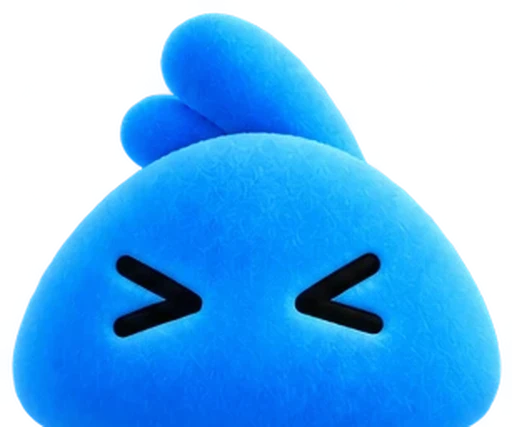
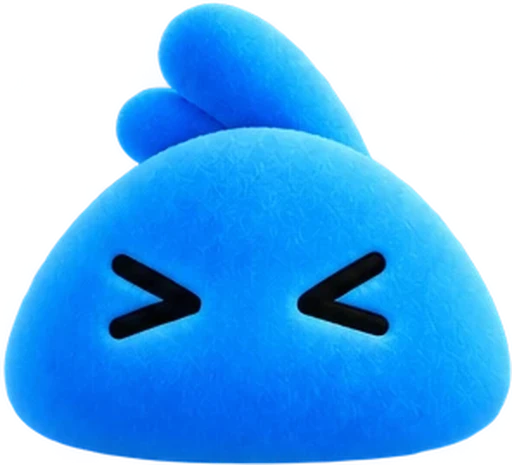
feat(nexa): living mascot — idle expressions, hop motion, uncropped faces
Owner requests 2026-10-24:
- The mascot moves by itself: the launcher cycles a brief expression every
  5 s (wink, happy, sparkle) and returns to neutral; in the chat, the
  greeting, the latest reply and the typing row blink on their own.
- Every expression change and hover plays a small elastic hop
  (nexa-hop keyframes, motion-safe only).
- The two sprite-sheet expressions (pikir, maaf) were cut 18 px short at
  the bottom because the sheet's rows are 269 px, not an even quarter;
  re-cut from the sheet's real alpha-gap grid so the full mascot shows.

diff --git a/src/components/layout/nexa/NexaChat.tsx b/src/components/layout/nexa/NexaChat.tsx
@@ -115,15 +115,58 @@ const speechErrorText = (code: string | undefined): string | null => {
   return 'Input suara tidak tersedia. Silakan ketik pertanyaan Anda.';
 };
 
+// ── Maskot hidup: tiap beberapa detik berganti ekspresi sebentar tanpa disorot (pemilik 2026-10-24) ──
+const IDLE_EVERY = 5000;
+const IDLE_FOR = 850;
+/** Urutan ekspresi selingan tombol maskot (kembali ke netral di antaranya). */
+const LAUNCHER_CYCLE: readonly NexaMood[] = ['kedip', 'ceria', 'kedip', 'kilau'];
+/** Avatar di percakapan cukup berkedip. */
+const CHAT_CYCLE: readonly NexaMood[] = ['kedip'];
+
+/**
+ * Ekspresi maskot yang hidup: selama `active`, setiap IDLE_EVERY ms ekspresi selingan dari `cycle` tampil IDLE_FOR ms,
+ * lalu kembali ke `base`. Pergantian gambar kecil seperti kedipan (bukan gerakan besar), jadi aman tanpa prefers-reduced-motion;
+ * lompatannya sendiri (nexa-hop) hanya jalan di motion-safe.
+ */
+function useIdleMood(base: NexaMood, active: boolean, cycle: readonly NexaMood[]): NexaMood {
+  const [peek, setPeek] = useState<NexaMood | null>(null);
+  useEffect(() => {
+    if (!active) return undefined;
+    let step = 0;
+    const timers: number[] = [];
+    const interval = window.setInterval(() => {
+      const mood = cycle[step % cycle.length];
+      step += 1;
+      setPeek(mood);
+      timers.push(window.setTimeout(() => setPeek(null), IDLE_FOR));
+    }, IDLE_EVERY);
+    return () => {
+      window.clearInterval(interval);
+      timers.forEach((timer) => window.clearTimeout(timer));
+    };
+  }, [active, cycle]);
+  // Saat tidak aktif, `peek` lama diabaikan saja (tanpa reset state di effect)
+  return active ? (peek ?? base) : base;
+}
+
 /** Potong ke `max` code point (bukan unit UTF-16, sama dengan mb_substr di backend). */
 const clip = (text: string, max: number): string => {
   const chars = [...text];
   return chars.length > max ? chars.slice(0, max).join('') : text;
 };
 
-/** Gambar maskot (dekoratif: nama "Nexa" selalu tertulis di dekatnya). */
-export const NexaAvatar: React.FC<{ className?: string; sizes: string; mood?: NexaMood }> = ({ className = '', sizes, mood = 'netral' }) => (
+/**
+ * Gambar maskot (dekoratif: nama "Nexa" selalu tertulis di dekatnya). `animate` membuat maskot melompat kecil setiap
+ * ekspresinya berganti (key = mood, animasi jalan saat elemen dipasang); disorot juga melompat. Keduanya motion-safe.
+ */
+export const NexaAvatar: React.FC<{ className?: string; sizes: string; mood?: NexaMood; animate?: boolean }> = ({
+  className = '',
+  sizes,
+  mood = 'netral',
+  animate = false,
+}) => (
   <img
+    key={animate ? mood : undefined}
     src={moodFile(mood, 128)}
     srcSet={moodSrcSet(mood)}
     sizes={sizes}
@@ -132,7 +175,9 @@ export const NexaAvatar: React.FC<{ className?: string; sizes: string; mood?: Ne
     height={118}
     decoding="async"
     draggable={false}
-    className={`select-none object-contain ${className}`}
+    className={`select-none object-contain motion-safe:hover:animate-[nexa-hop_0.6s_ease-in-out] ${
+      animate ? 'motion-safe:animate-[nexa-hop_0.55s_ease-in-out]' : ''
+    } ${className}`}
   />
 );
 
@@ -229,8 +274,9 @@ export const NexaChat: React.FC<NexaChatProps> = ({ whatsappHref, open, onOpenCh
   const [listening, setListening] = useState(false);
   // Pesan galat input suara (tampil di bawah form & dibacakan lewat role=status)
   const [micNote, setMicNote] = useState('');
-  // Maskot tombol menyapa (senang) saat disorot/difokus
+  // Maskot tombol menyapa saat disorot/difokus; selebihnya hidup sendiri (berkedip dkk. tiap beberapa detik)
   const [greetingLauncher, setGreetingLauncher] = useState(false);
+  const idleMood = useIdleMood('netral', true, LAUNCHER_CYCLE);
   // Panel hanya dirender di klien (tidak ada di HTML prerender), jadi deteksi fitur saat render pertama aman
   const [canListen] = useState(() => speechRecognition() !== null && microphoneAllowed());
 
@@ -443,11 +489,17 @@ export const NexaChat: React.FC<NexaChatProps> = ({ whatsappHref, open, onOpenCh
               aria-label="Percakapan dengan Nexa"
               className="custom-scrollbar relative min-h-32 flex-1 space-y-4 overflow-y-auto overscroll-contain px-6 py-4 sm:px-7"
             >
-              <Bubble from="nexa" mood="ceria">
+              <Bubble from="nexa" mood="ceria" live={messages.length === 0 && !typing}>
                 {GREETING}
               </Bubble>
-              {messages.map((message) => (
-                <Bubble key={message.id} id={message.id} from={message.from} mood={message.mood}>
+              {messages.map((message, index) => (
+                <Bubble
+                  key={message.id}
+                  id={message.id}
+                  from={message.from}
+                  mood={message.mood}
+                  live={!typing && index === messages.length - 1}
+                >
                   {message.from === 'nexa' ? <RichText text={message.text} onNavigate={() => onOpenChange(false)} /> : message.text}
                   {message.action && (
                     <span className="block">
@@ -457,7 +509,7 @@ export const NexaChat: React.FC<NexaChatProps> = ({ whatsappHref, open, onOpenCh
                 </Bubble>
               ))}
               {typing && (
-                <NexaRow mood="pikir">
+                <NexaRow mood="pikir" live>
                   <div className="flex items-center gap-1.5 rounded-[22px] bg-fg/[0.045] px-5 py-4" aria-hidden>
                     {[0, 1, 2].map((i) => (
                       <span key={i} className="h-2 w-2 rounded-full bg-fg/40 motion-safe:animate-bounce" style={{ animationDelay: `${i * 0.15}s` }} />
@@ -558,7 +610,12 @@ export const NexaChat: React.FC<NexaChatProps> = ({ whatsappHref, open, onOpenCh
             Tanya Nexa
           </span>
         )}
-        <NexaAvatar className="h-12 w-12 sm:h-14 sm:w-14" sizes="(min-width: 640px) 56px, 48px" mood={greetingLauncher ? 'ceria' : 'netral'} />
+        <NexaAvatar
+          className="h-12 w-12 sm:h-14 sm:w-14"
+          sizes="(min-width: 640px) 56px, 48px"
+          mood={greetingLauncher ? 'ceria' : idleMood}
+          animate
+        />
         {/* Lencana "AI": lingkaran hitam kecil, teks putih, tanpa garis, di kiri agak ke bawah (pemilik 2026-10-24) */}
         {!open && (
           <span
@@ -573,19 +630,25 @@ export const NexaChat: React.FC<NexaChatProps> = ({ whatsappHref, open, onOpenCh
   );
 };
 
-/** Baris pesan Nexa: maskot berekspresi (hanya gambar, tanpa latar & garis) di kiri bawah, sejajar dasar gelembung. */
-const NexaRow: React.FC<{ id?: number; mood?: NexaMood; children: React.ReactNode }> = ({ id, mood, children }) => (
-  <div
-    className="flex items-end gap-3 transition-[opacity,translate] duration-300 ease-calm starting:translate-y-2 starting:opacity-0 motion-reduce:transition-none"
-    data-message-id={id}
-  >
-    <NexaAvatar className="h-10 w-10 shrink-0" sizes="40px" mood={mood} />
-    <div className="min-w-0 max-w-[85%]">{children}</div>
-  </div>
-);
+/**
+ * Baris pesan Nexa: maskot berekspresi (hanya gambar, tanpa latar & garis) di kiri bawah, sejajar dasar gelembung.
+ * `live` (baris terakhir / sedang mengetik): maskot berkedip sendiri tiap beberapa detik.
+ */
+const NexaRow: React.FC<{ id?: number; mood?: NexaMood; live?: boolean; children: React.ReactNode }> = ({ id, mood = 'netral', live = false, children }) => {
+  const shown = useIdleMood(mood, live, CHAT_CYCLE);
+  return (
+    <div
+      className="flex items-end gap-3 transition-[opacity,translate] duration-300 ease-calm starting:translate-y-2 starting:opacity-0 motion-reduce:transition-none"
+      data-message-id={id}
+    >
+      <NexaAvatar className="h-10 w-10 shrink-0" sizes="40px" mood={shown} animate={live} />
+      <div className="min-w-0 max-w-[85%]">{children}</div>
+    </div>
+  );
+};
 
-/** Gelembung pesan: Nexa kiri (abu, avatar berekspresi `mood`), pengunjung kanan (biru muda). `id` = data-message-id. */
-const Bubble: React.FC<{ from: 'nexa' | 'user'; id?: number; mood?: NexaMood; children: React.ReactNode }> = ({ from, id, mood, children }) => {
+/** Gelembung pesan: Nexa kiri (abu, avatar berekspresi `mood`, hidup bila `live`), pengunjung kanan (biru muda). */
+const Bubble: React.FC<{ from: 'nexa' | 'user'; id?: number; mood?: NexaMood; live?: boolean; children: React.ReactNode }> = ({ from, id, mood, live, children }) => {
   const label = <span className="sr-only">{from === 'user' ? 'Anda: ' : 'Nexa: '}</span>;
   if (from === 'user') {
     return (
@@ -601,7 +664,7 @@ const Bubble: React.FC<{ from: 'nexa' | 'user'; id?: number; mood?: NexaMood; ch
     );
   }
   return (
-    <NexaRow id={id} mood={mood}>
+    <NexaRow id={id} mood={mood} live={live}>
       <div className="whitespace-pre-line break-words rounded-[22px] bg-fg/[0.045] px-5 py-3.5 text-[15px] leading-relaxed text-fg">
         {label}
         {children}

diff --git a/src/components/layout/__tests__/chrome.test.tsx b/src/components/layout/__tests__/chrome.test.tsx
@@ -481,6 +481,24 @@ describe('Nexa AI', () => {
     expect(posts[1].messages).toHaveLength(3);
   });
 
+  it('maskot hidup: tombol berganti ekspresi sendiri tiap beberapa detik lalu kembali netral', () => {
+    vi.useFakeTimers();
+    try {
+      renderAt(<FloatingWhatsApp href={WA} />);
+      const launcher = () => screen.getByRole('button', { name: 'Tanya Nexa, asisten AI' });
+      expect(launcher().querySelector('img')).toHaveAttribute('src', '/assets/nexa/nexa-128.webp');
+      act(() => vi.advanceTimersByTime(5100));
+      expect(launcher().querySelector('img')?.getAttribute('src')).toContain('nexa-kedip');
+      act(() => vi.advanceTimersByTime(900));
+      expect(launcher().querySelector('img')).toHaveAttribute('src', '/assets/nexa/nexa-128.webp');
+      // Putaran kedua (detik ke-10): giliran ekspresi ceria
+      act(() => vi.advanceTimersByTime(4100));
+      expect(launcher().querySelector('img')?.getAttribute('src')).toContain('nexa-ceria');
+    } finally {
+      vi.useRealTimers();
+    }
+  });
+
   it('input suara: hasil final terkirim otomatis saat selesai bicara; dibatalkan tidak terkirim', async () => {
     FakeRecognition.instances = [];
     vi.stubGlobal('SpeechRecognition', FakeRecognition);

diff --git a/src/index.css b/src/index.css
@@ -582,6 +582,14 @@
   to { transform: translate3d(120px, 60px, 0) scale(1.15); }
 }
 
+/* Maskot Nexa: lompatan kecil elastis saat ganti ekspresi atau disorot (NexaChat) */
+@keyframes nexa-hop {
+  0% { translate: 0 0; scale: 1 1; }
+  35% { translate: 0 -9%; scale: 1.05 0.95; }
+  70% { translate: 0 1%; scale: 0.97 1.04; }
+  100% { translate: 0 0; scale: 1 1; }
+}
+
 /*
  * Beranda: latar halaman ber-crossfade per section (SectionChrome memasang lapisan warna fixed di belakang).
  * Section langsung di dalam <main class="page-chrome"> dibuat transparan agar lapisan itu terlihat.
